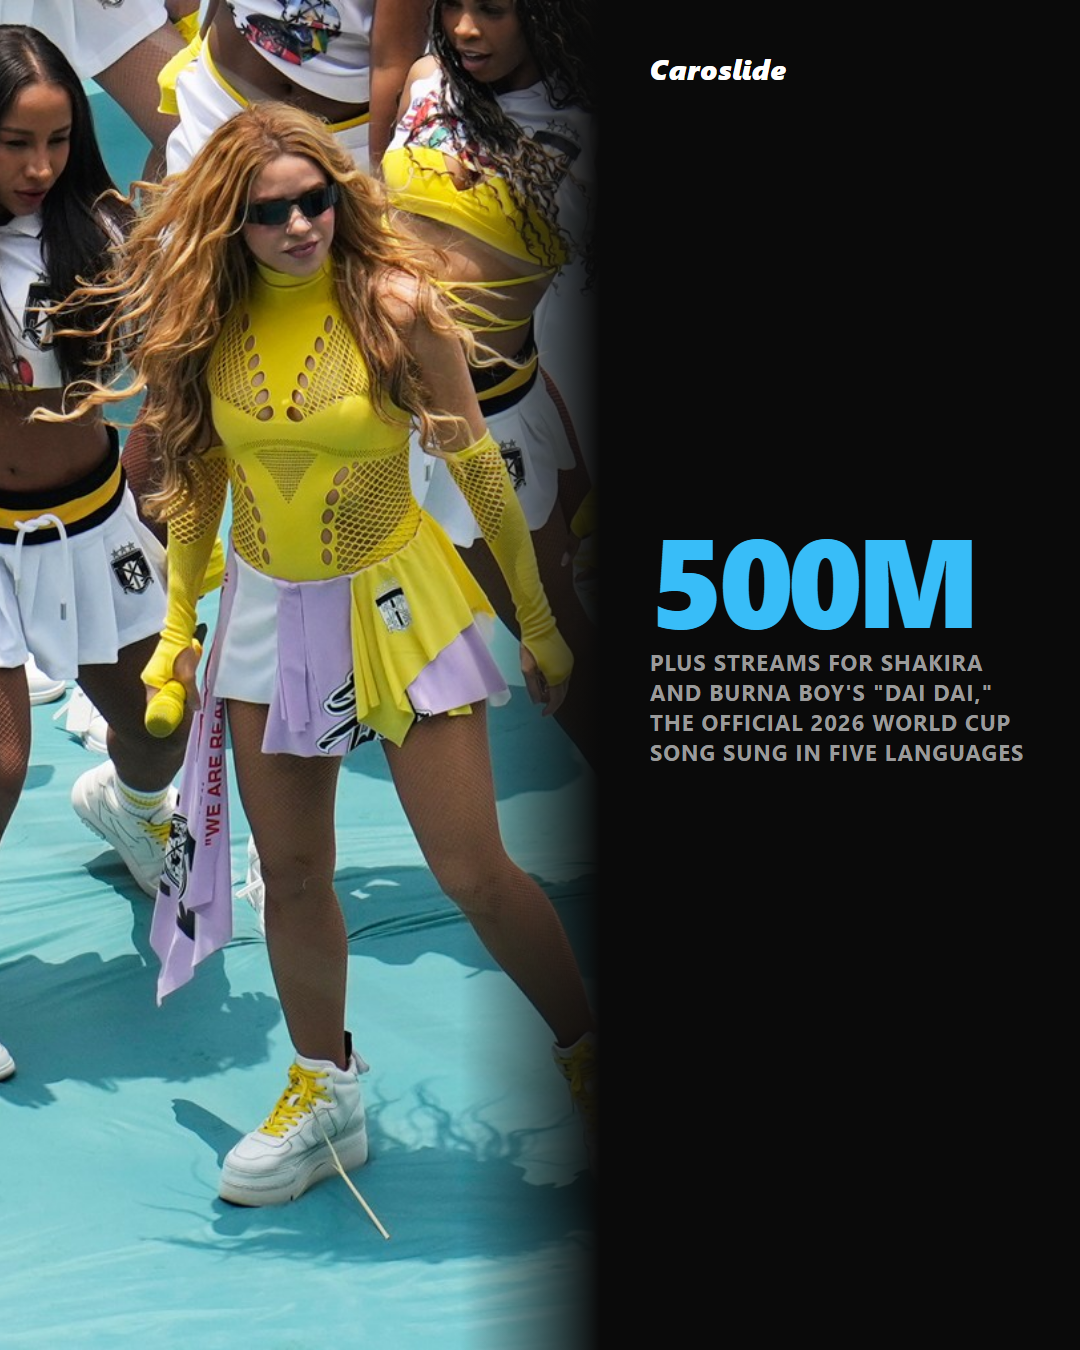
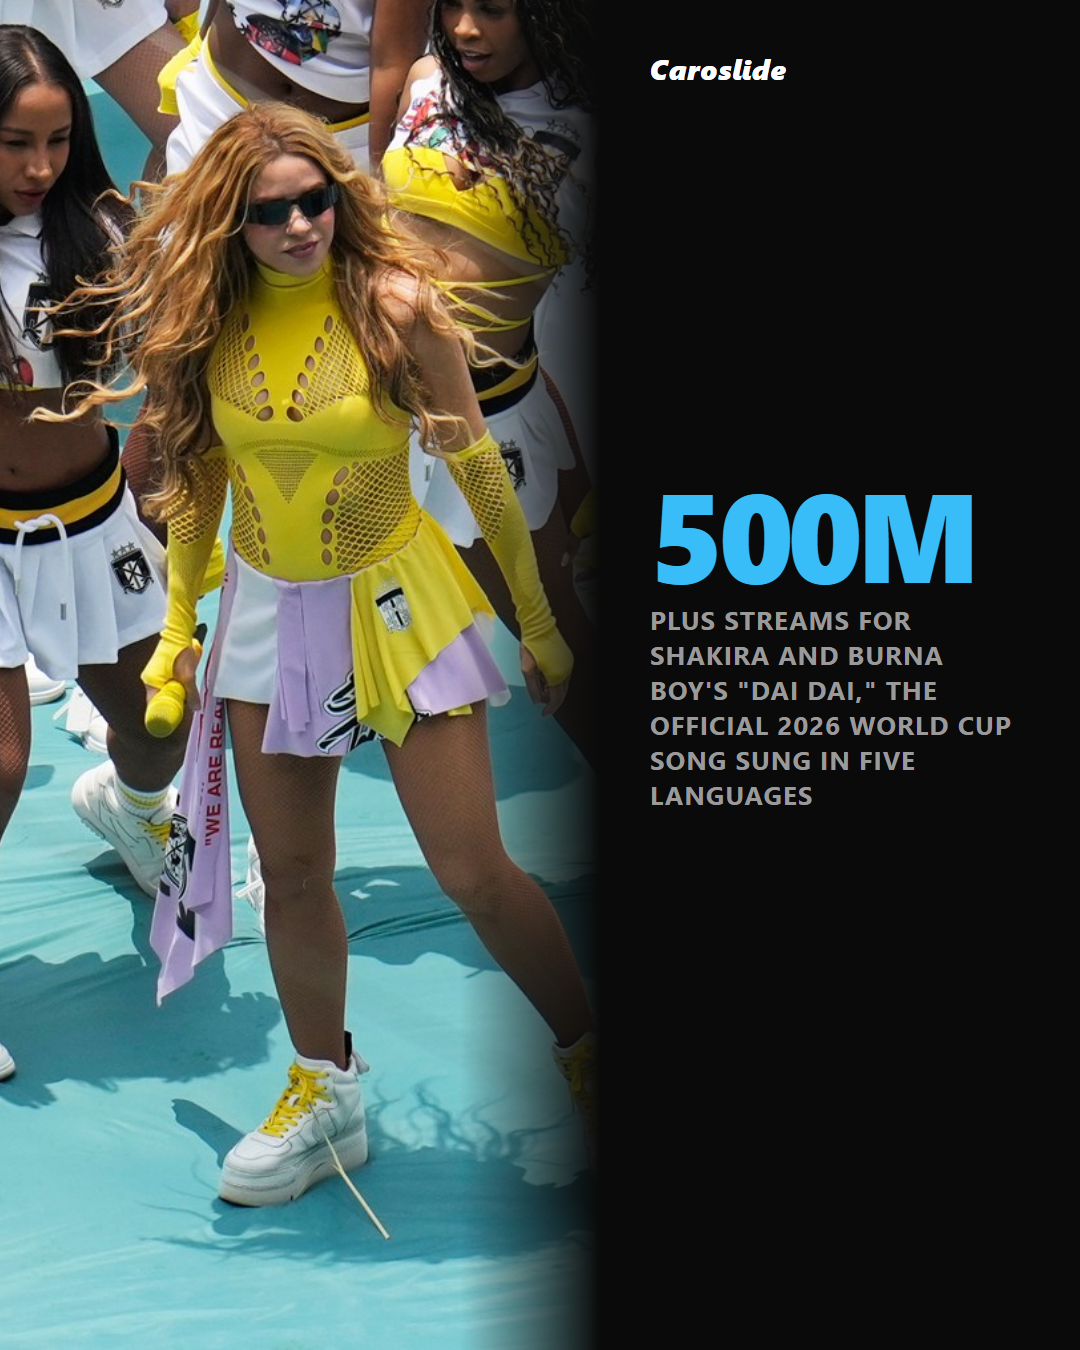
fix: re-render stat/circle-position template updates, shrink Format/Angle mobile cards
- Re-ship template previews + shipped marquee carousels (dai-dai, xiaomi-powerbank) after the /carousel skill's statlbl size and Flipped circle-position fixes
- Shrink Format/Angle picker cards to 3:2 on mobile (was inheriting the 4:5 ratio meant for Look/Style's real screenshots) -- their mockups are just text/SVG, didn't need that much room

Changed region(s): [[0.5806, 0.3422, 0.9472, 0.6222]]

diff --git a/src/app/globals.css b/src/app/globals.css
@@ -564,6 +564,13 @@ a { color: inherit; }
   .new-section h1 { font-size: 21px; }
   .pick-card { flex: 1 1 100%; }
   .pick-row-2col { grid-template-columns: 1fr; }
+  /* Format and Angle steps' cards were forced full 4:5 height (correct for the
+     Look/Style steps' real template screenshots, wrong here) -- their mockups are
+     just simple text/SVG, not a photo that needs that much room, so stacking 3
+     of them at full 4:5 read as "extremely big" on a phone. Scope this to the
+     plain .pick-row (Format/Angle) and explicitly leave .pick-row-2col
+     (Look/Style, real screenshots) at the correct ratio above. */
+  .pick-row:not(.pick-row-2col) .pick-card-preview { aspect-ratio: 3/2; }
 
   .viewer-section { border-radius: 14px; margin-top: 4px; }
   /* Back button removed on mobile per Jaylen -- the mobile app-bar's logo (Sidebar.tsx)
